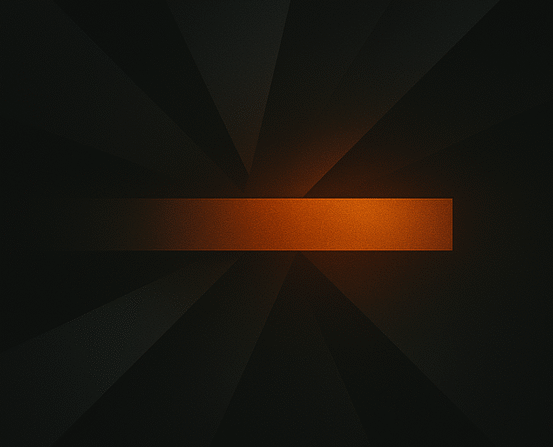
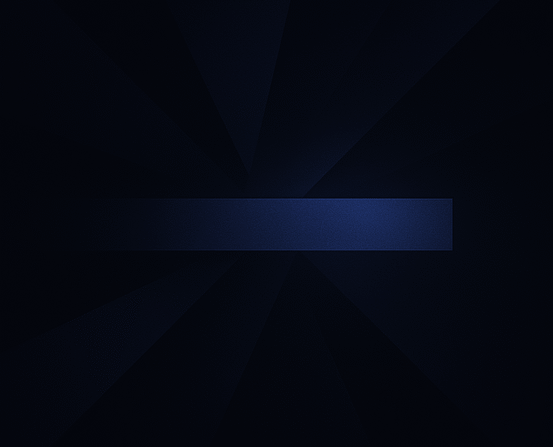
add work card

Changed region(s): [[0.2459, 0.1454, 0.8608, 0.7271]]

diff --git a/src/components/common/WorkCard.tsx b/src/components/common/WorkCard.tsx
@@ -1,9 +1,89 @@
-import React from 'react'
-
-const WorkCard = () => {
+import { Box, Button, Typography } from "@mui/material";
+import React from "react";
+import work1 from "@/homePage/work/img1.png";
+import Image from "next/image";
+import { COLORS } from "@/utils/enum";
+import { WORK_CARD_PROPS } from "@/utils/types";
+const WorkCard = ({ img, heading }: WORK_CARD_PROPS) => {
   return (
-    <div>WorkCard</div>
-  )
-}
+    <Box
+      sx={{
+        overflow: "hidden",
+        borderRadius: "10px",
+        position: "relative",
+        ":after": {
+          content: "''",
+          position: "absolute",
+          top: 0,
+          left: 0,
+          width: "100%",
+          height: "100%",
+          background:
+            "linear-gradient(145deg, rgba(255, 255, 255, 0.05), rgba(0, 0, 0, 0.3))",
+          mixBlendMode: "overlay",
+          opacity: 0,
+          transition: "opacity 0.5s ease",
+          zIndex: 2,
+        },
+        ":hover": {
+          ".button_heading": {
+            translateY: 0,
+            opacity: 1,
+          },
+          ".img": {
+            scale: 1.1,
+          },
+          ".text": {
+            opacity: 1,
+          },
+        },
+        p: 2,
+      }}
+    >
+      <Image
+        src={img}
+        alt=""
+        style={{
+          width: "100%",
+          height: 350,
+          borderRadius: "30px",
+          transition: "0.5s ease all",
+        }}
+        className="img"
+      />
+      <Typography
+        sx={{
+          fontSize: 46,
+          fontWeight: 500,
+          lineHeight: "40px",
+          marginTop: "22px",
+          color: COLORS.WHITE,
+          opacity: 0.3,
+          fontFamily: "clash-display",
+        }}
+        className="text"
+      >
+        {heading}
+      </Typography>
+      <Button
+        sx={{
+          mt: 2,
+          backgroundColor: COLORS.PRIMARY,
+          borderRadius: "5px",
+          padding: "8px 11px 8px 12px",
+          color: COLORS.WHITE,
+          fontFamily: "clash-display",
+          translateY: "10px",
+          opacity: 0,
+          zIndex: 3,
+          transition: "all 0.5s ease 0.2s",
+        }}
+        className="button_heading"
+      >
+        Branding
+      </Button>
+    </Box>
+  );
+};
 
-export default WorkCard
+export default WorkCard;

diff --git a/src/components/Home/Who-we-are/WhoCard.tsx b/src/components/Home/Who-we-are/WhoCard.tsx
@@ -1,9 +1,7 @@
-import { Box, Grid, Stack, Typography } from "@mui/material";
-import React from "react";
-import mission from "@/homePage/mission.jpg";
-import Image from "next/image";
 import { COLORS } from "@/utils/enum";
 import { WHO_CARD_PROPS } from "@/utils/types";
+import { Box, Grid, Stack, Typography } from "@mui/material";
+import Image from "next/image";
 const WhoCard = ({ reverse, description, img }: WHO_CARD_PROPS) => {
   return (
     <Box
@@ -19,7 +17,7 @@ const WhoCard = ({ reverse, description, img }: WHO_CARD_PROPS) => {
           width: "200%",
           height: "200%",
           background:
-            "linear-gradient(120deg, transparent, rgba(129, 219, 73, 0.2) , transparent)",
+            "linear-gradient(120deg, transparent,rgba(65, 105, 225, 0.31) , transparent)",
           transform: "rotate(25deg)",
           transition: "all 0.5s ease",
           zIndex: 1,
@@ -40,7 +38,11 @@ const WhoCard = ({ reverse, description, img }: WHO_CARD_PROPS) => {
         alignItems: "center",
       }}
     >
-      <Grid container flexDirection={reverse ? "row-reverse" : "row"} spacing={2} >
+      <Grid
+        container
+        flexDirection={reverse ? "row-reverse" : "row"}
+        spacing={2}
+      >
         <Grid size={7}>
           <Stack flexDirection={reverse ? "column-reverse" : "column"}>
             <Typography

diff --git a/src/assets/WhoCard.ts b/src/assets/WhoCard.ts
@@ -1,6 +1,9 @@
-import { WHO_CARD_PROPS } from "@/utils/types";
+import { WHO_CARD_PROPS, WORK_CARD_PROPS } from "@/utils/types";
 import mission from "@/homePage/mission.jpg";
 import vision from "@/homePage/vision.jpg";
+import work1 from "@/homePage/work/img1.png";
+import work2 from "@/homePage/work/img2.png";
+import work3 from "@/homePage/work/img3.png";
 export const WHO_CARD_DATA: WHO_CARD_PROPS[] = [
   {
     img: mission,
@@ -16,5 +19,20 @@ export const WHO_CARD_DATA: WHO_CARD_PROPS[] = [
     reverse: true,
     title: "Our",
     subTitle: "Vision",
+  },
+];
+
+export const WORK_CARD_DATA: WORK_CARD_PROPS[] = [
+  {
+    img: work1,
+    heading: "Insigne",
+  },
+  {
+    img: work2,
+    heading: "Logico",
+  },
+  {
+    img: work3,
+    heading: "Nightwish",
   },
 ];

diff --git a/src/components/Home/Work.tsx b/src/components/Home/Work.tsx
@@ -1,12 +1,21 @@
-import { Box, Container } from "@mui/material";
+import { Box, Container, Grid } from "@mui/material";
 import React from "react";
 import SectionTitle from "./components/Section-Title";
+import WorkCard from "../common/WorkCard";
+import { WORK_CARD_DATA } from "@/assets/WhoCard";
 
 const Work = () => {
   return (
-    <Box sx={{ mt: 10 }}>
+    <Box sx={{ mt: 15 }}>
       <Container maxWidth="xl">
         <SectionTitle sectionTitle="work" hasButton={true} />
+        <Grid mt={3} container spacing={4}>
+          {WORK_CARD_DATA.map((val, i) => (
+            <Grid size={4} key={i}>
+              <WorkCard heading={val.heading} img={val.img} />
+            </Grid>
+          ))}
+        </Grid>
       </Container>
     </Box>
   );

diff --git a/src/components/Home/Banner.tsx b/src/components/Home/Banner.tsx
@@ -1,6 +1,6 @@
 import { Box, Button, Container, Grid, Typography } from "@mui/material";
 import React from "react";
-import banner from "@/homePage/home_banner2.png";
+import banner from "@/homePage/home_banner.png";
 import { COLORS } from "@/utils/enum";
 import { ArrowForward } from "@mui/icons-material";
 const Banner = () => {

diff --git a/src/styles/cursor.module.css b/src/styles/cursor.module.css
@@ -1,9 +1,9 @@
 :root {
   /* --main-color: #0047ab; */
-  --main-color: #81db49;
-  --point-five: rgba(129, 219, 73, 0.5);
-  --point-three: rgba(129, 219, 73, 0.3);
-  --point-four: rgba(129, 219, 73, 0.4);
+  --main-color: #4169E1;
+  --point-five: #4169e150;
+  --point-three: #4169E150;
+  --point-four: #4169E150;
 }
 
 .cursor {

diff --git a/src/utils/enum.ts b/src/utils/enum.ts
@@ -1,7 +1,8 @@
 export enum COLORS {
   HEADER_BG = "#1e1e1e",
   // PRIMARY = "#0047AB",
-  PRIMARY = "#81DB49",
+  // PRIMARY = "#81DB49",
+  PRIMARY = "#4169E1",
   WHITE = "#ffffff",
   TRANSPARENT = "transparent",
   BLACK = "#000",

diff --git a/src/utils/types.ts b/src/utils/types.ts
@@ -31,3 +31,8 @@ export interface WHO_CARD_PROPS {
   title?: string | undefined;
   subTitle?: string | undefined;
 }
+
+export interface WORK_CARD_PROPS {
+  img: StaticImport;
+  heading: string;
+}
